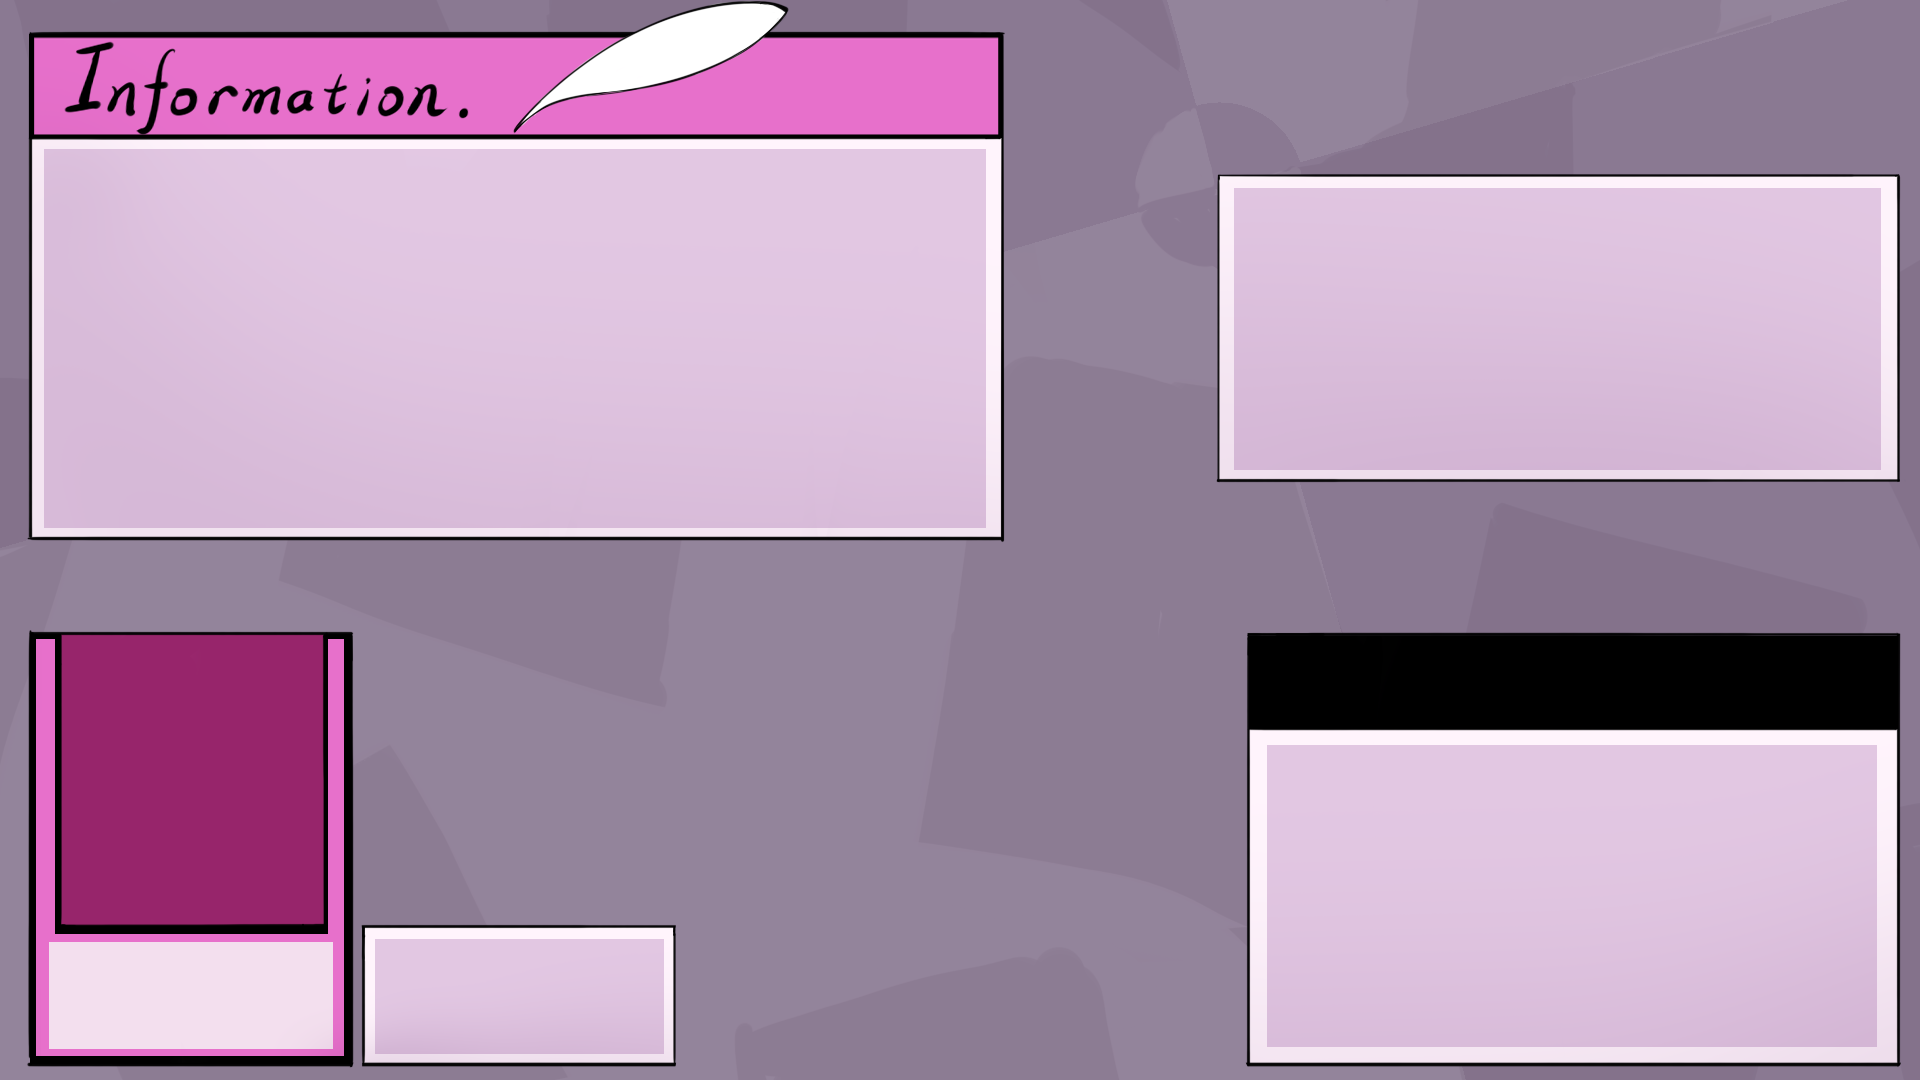
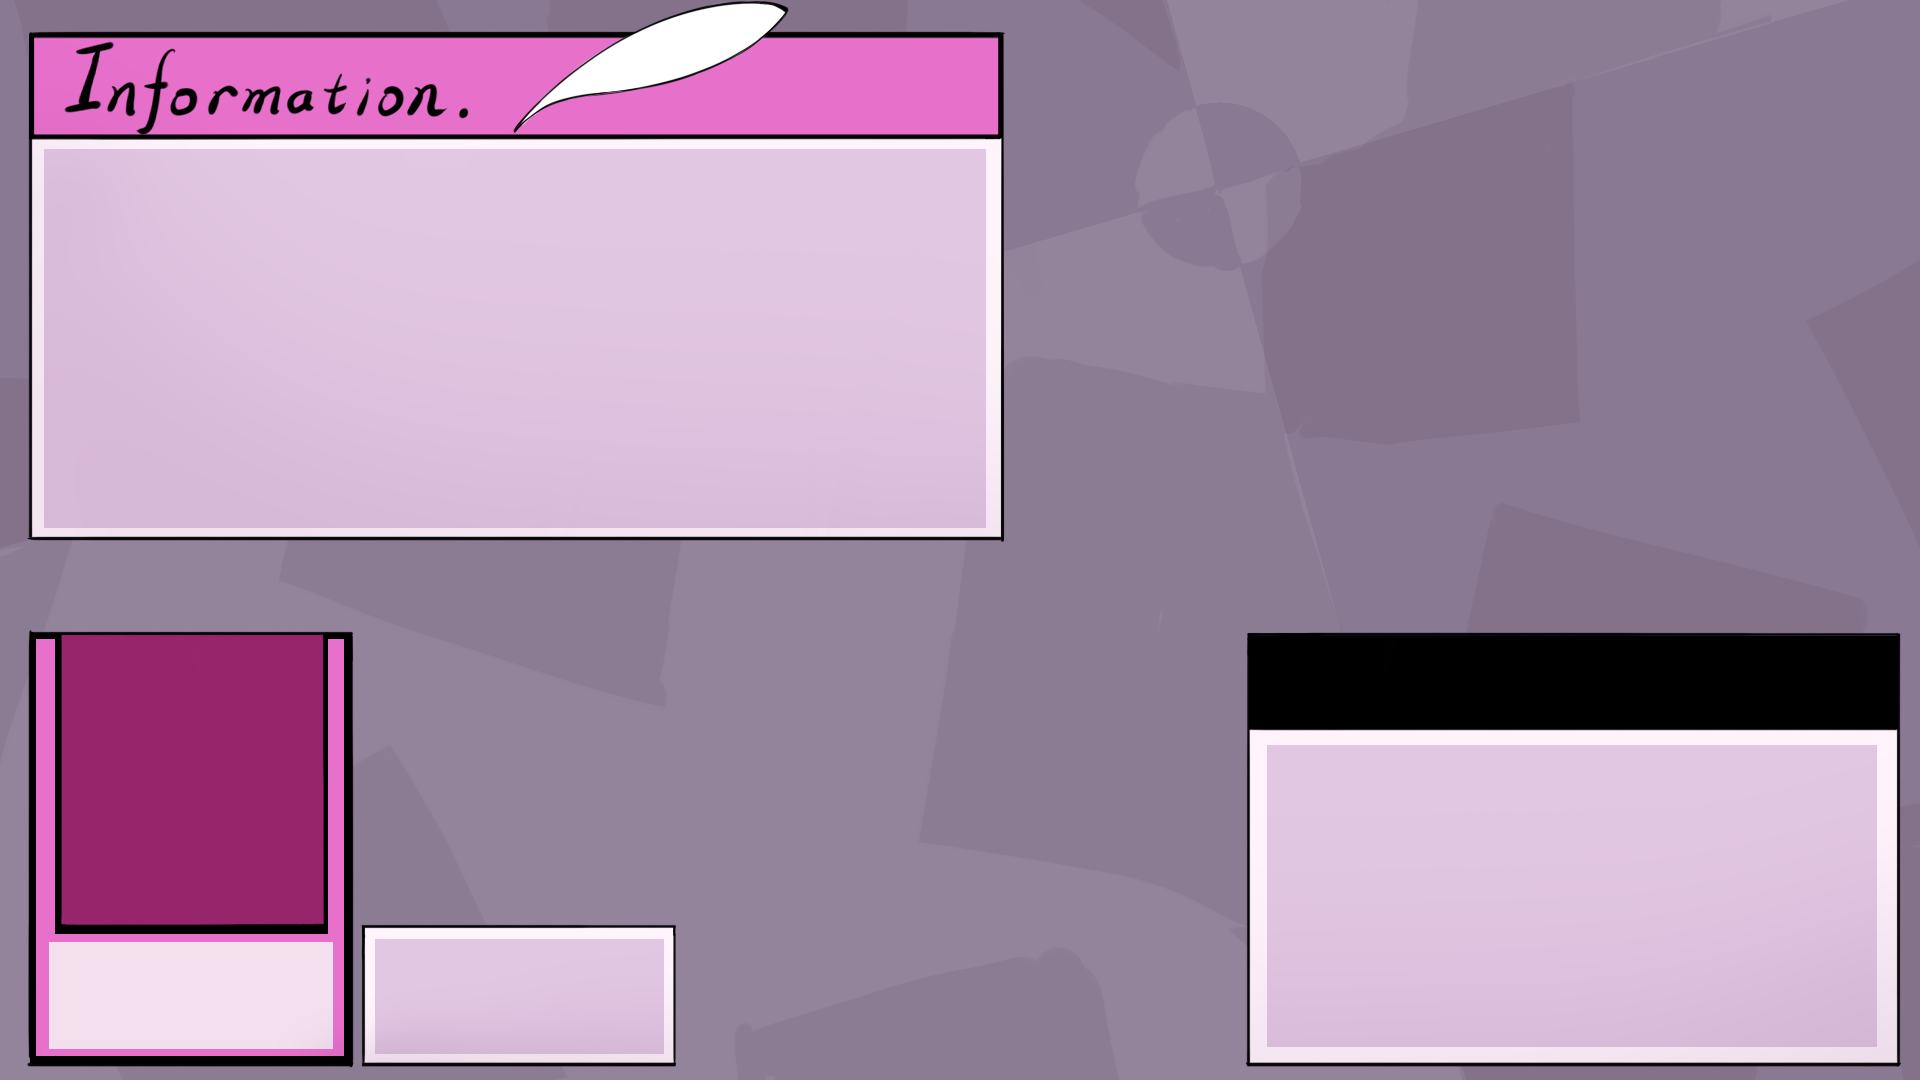
update image

Changed region(s): [[0.625, 0.1528, 1.0, 0.4583]]

diff --git a/adventure.css b/adventure.css
@@ -130,27 +130,21 @@
 
 /* 右上 nextcards */
 #adventure #nextcards {
-  grid-column: 2;
-  grid-row: 1;
-  justify-self: end;
+  position: absolute;
+  left: 1218px;
+  top: 104px;            /* 174(手牌顶) − 70(牌堆高) */
   box-sizing: border-box;
-  width: calc(100% - 100px);
-  height: 100%;
+  width: 681px;
+  height: 70px;
 
   min-width: 0;
   min-height: 0;
 
-  padding: clamp(12px, 3vw, 40px);
+  padding: 0;
 
   border: 0;
   background: transparent;
 
-  display: flex;
-  flex-direction: column;
-  align-items: stretch;
-  justify-content: flex-start;
-  gap: var(--scene-gap);
-  position: relative;
   overflow: visible;
 }
 #adventure #adventure-ui1 {
@@ -158,8 +152,8 @@
   height: auto;
   max-width: none;
   position: absolute;
-  left: 0;
-  bottom: 0;
+  left: -10px;
+  top: -72px;
   display: block;
   z-index: 10;
   pointer-events: none;
@@ -191,15 +185,18 @@
 
 /* 牌堆计数牌 */
 #adventure #adventuredeck {
+  position: absolute;
+  left: 50%;
+  top: 0;
+  transform: translateX(-50%);
   width: 150px;
   height: 70px;
-  margin: 0 auto;
+  margin: 0;
 
   display: flex;
   flex-direction: column;
   align-items: center;
   justify-content: flex-end;
-  align-self: center;
   gap: 4px;
 
   border: 0;
@@ -233,9 +230,14 @@
   flex: 0 0 50px;
   display: block;
 }
-/* 手牌区域 */
+/* 牌区域 */
 #adventure #adventure-hand {
-  width: 100%;
+  position: absolute;
+  left: 0;
+  top: 70px;
+  box-sizing: border-box;
+  width: 681px;
+  height: 307px;
   padding: calc(60px + 1em) 6px 6px;
   border: 2px solid #000000;
   display: grid;

diff --git a/index.html b/index.html
@@ -255,12 +255,13 @@
       </div>
 
       <div id="nextcards" aria-label="next cards">
-      <img id="adventure-ui1" src="images/adventure/UI1.png" alt="" hidden />
+      <img id="adventure-ui1" src="images/UI/adventurecards.png" alt="" hidden />
         <div id="adventuredeck" aria-label="deck counter">
           <span id="adventurecardnum">0</span><img id="adventurebackcard" src="images/adventure/card_0.png" alt="" />
         </div>
 
         <div id="adventure-hand" class="slots" aria-label="adventure hand">
+      <img id="adventure-cardsmain" src="images/UI/adventurecardsmain.png" alt="" hidden />
 
           <button class="card-slot" type="button" aria-label="next-card-1">
             <span class="adventure-card-name"></span><img src="null.png" alt="next card 1" />
